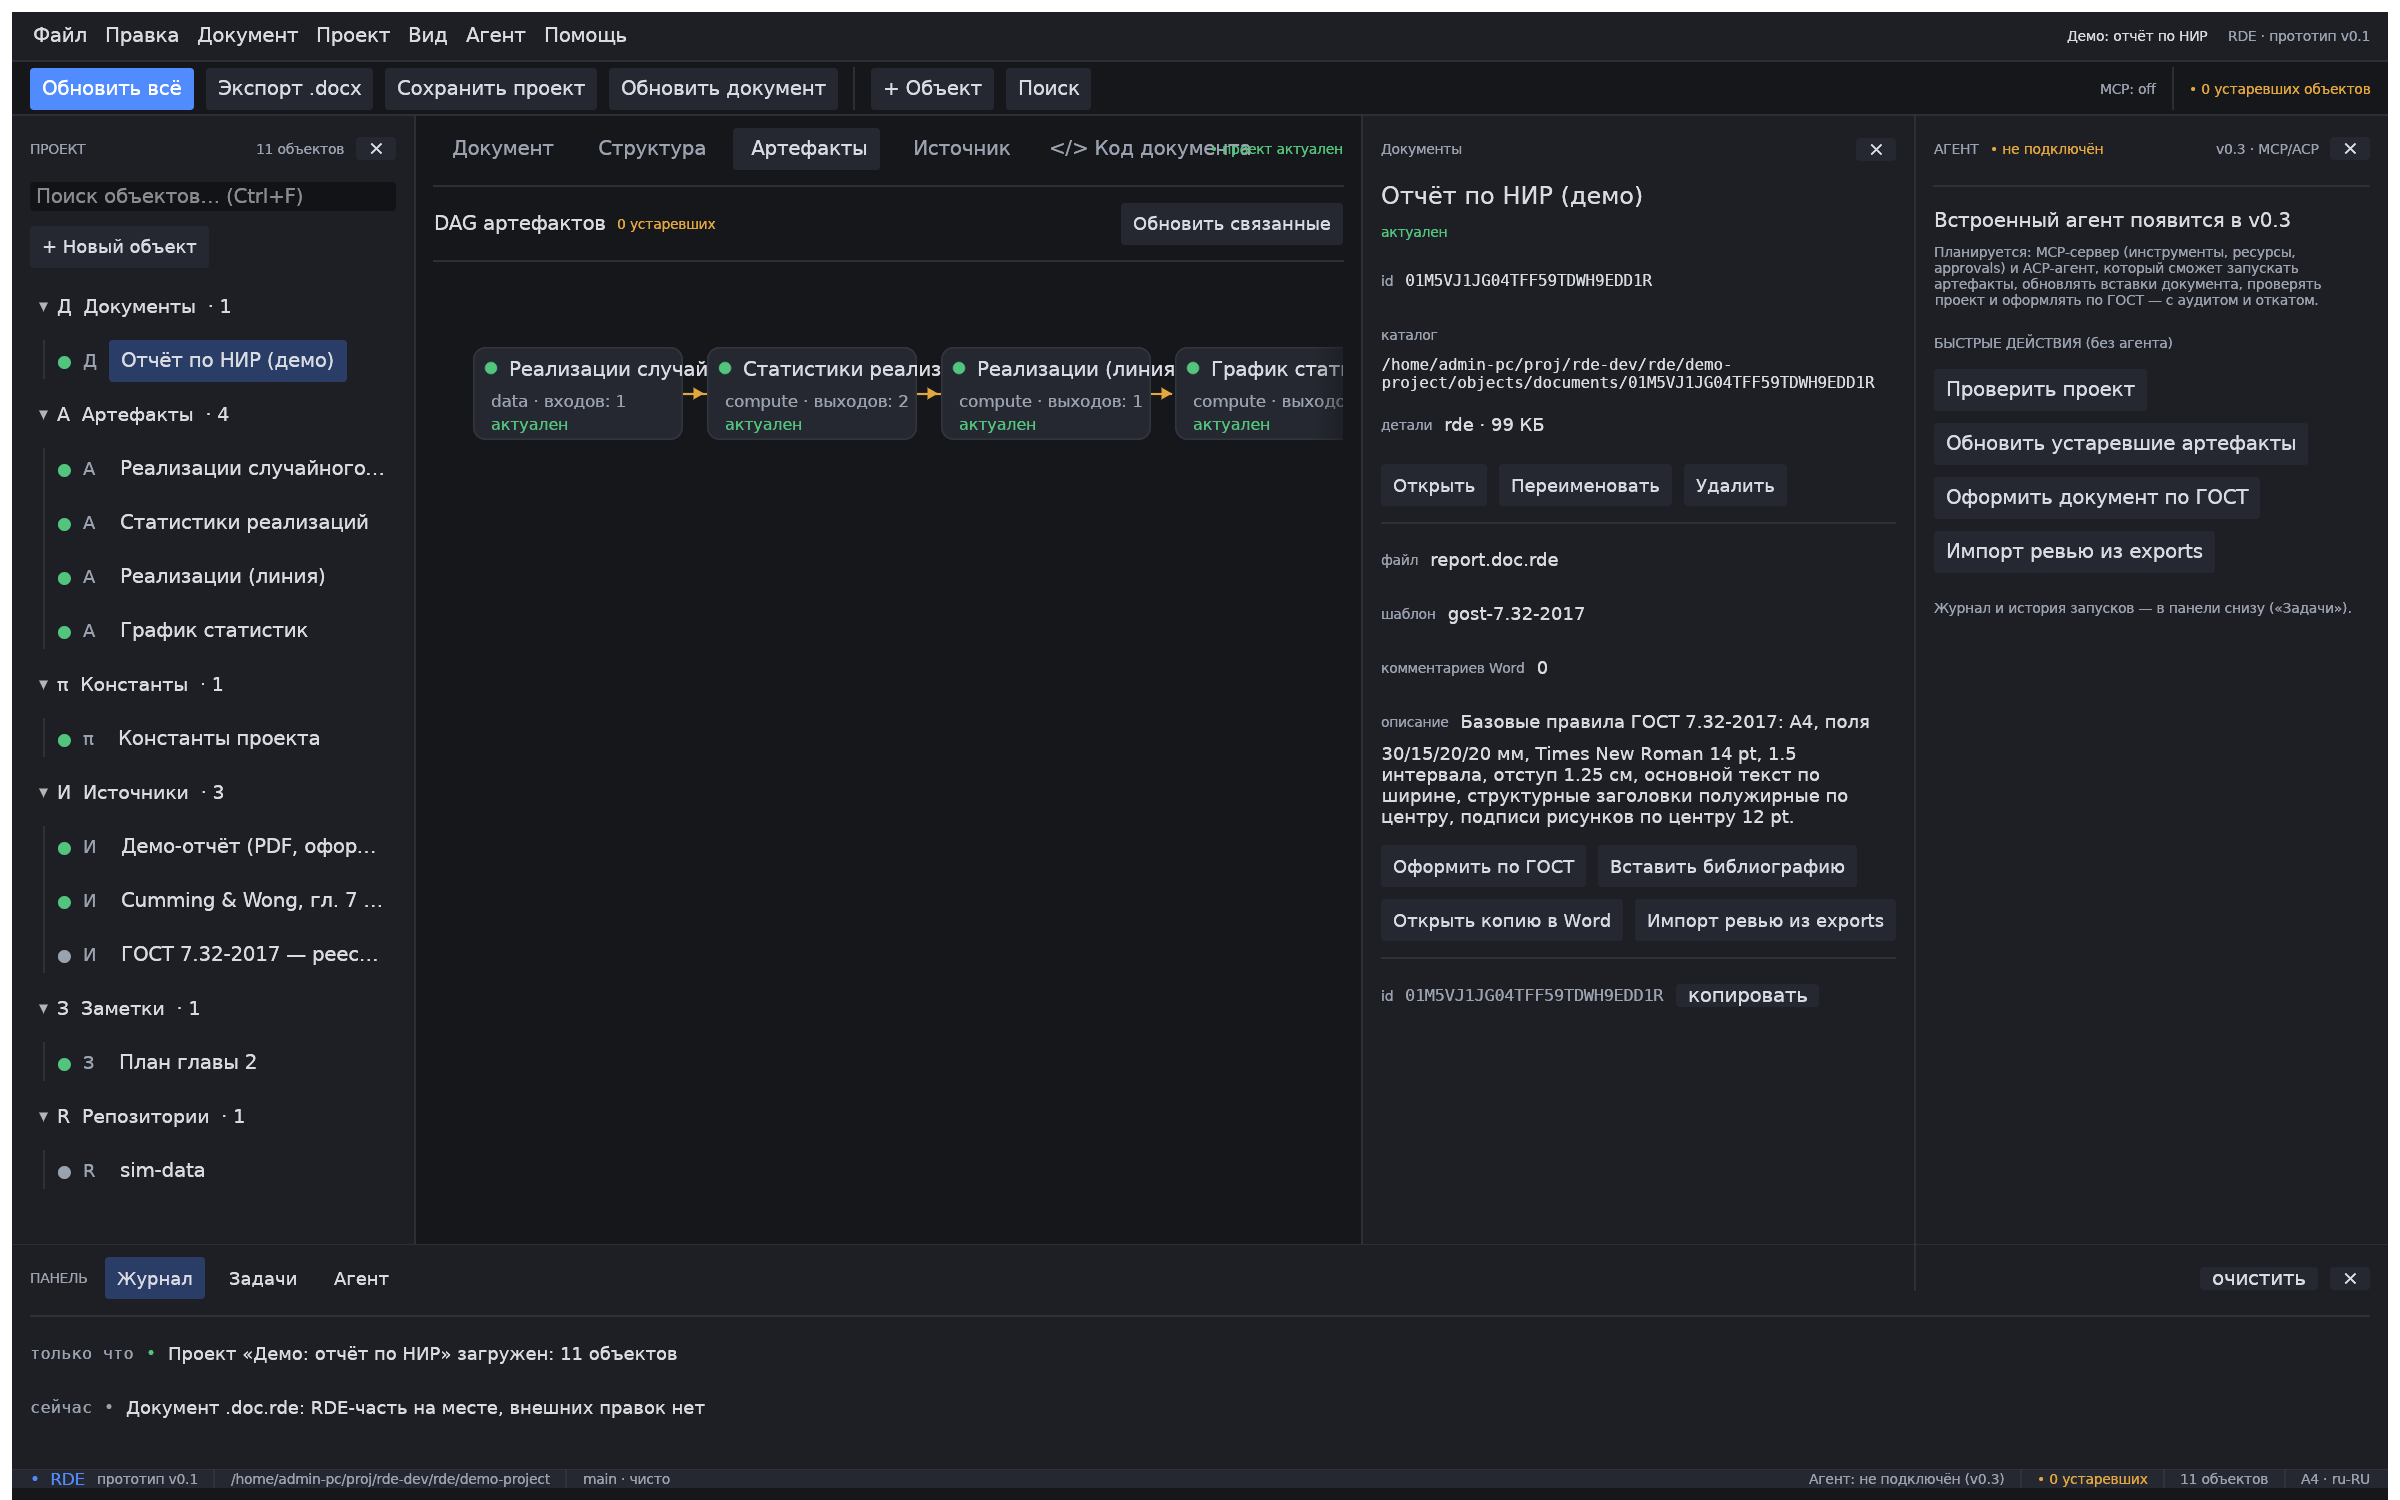
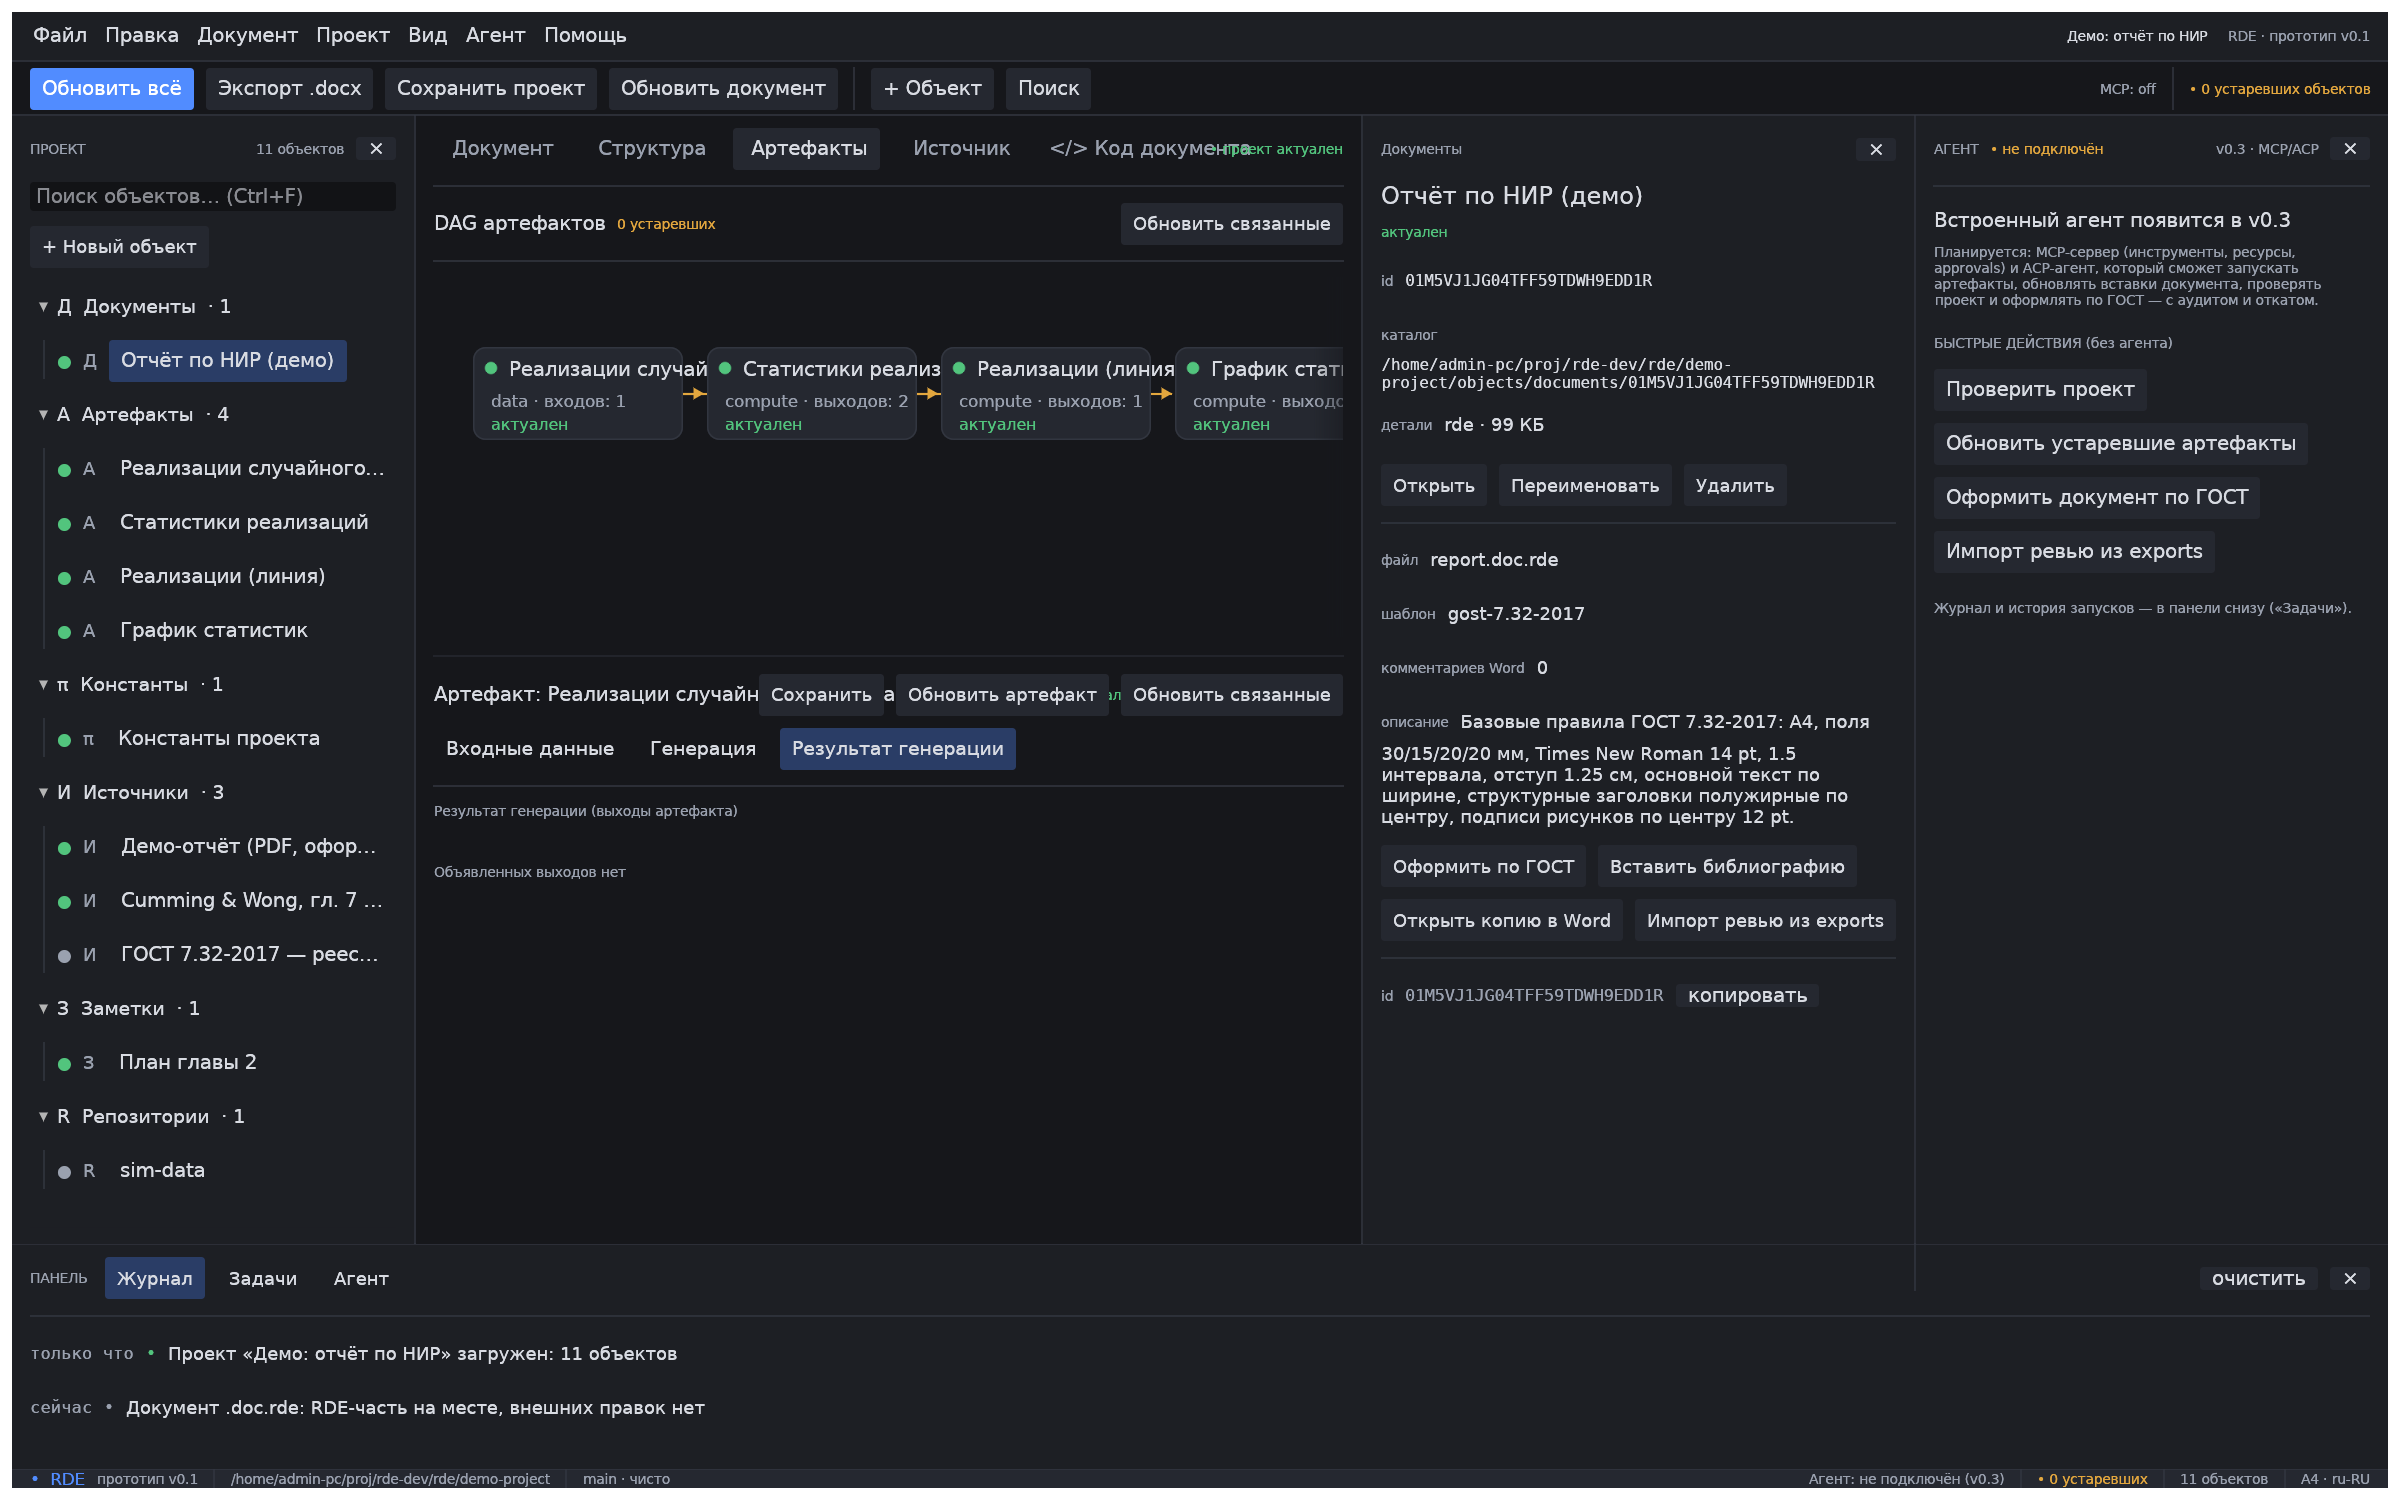
fix(ui): привязка medium/semibold, диалоги со 2-го кадра
Паника заголовков Window при глобальном Heading->semibold от WordCraft; set_fonts активен только после конца пасса. Тест window_title_survives_vendor_semibold_heading. 32/32.

Changed region(s): [[0.0, 0.9813, 1.0, 1.0], [0.1875, 0.46, 0.5625, 0.552]]

diff --git a/crates/rde-ui/src/lib.rs b/crates/rde-ui/src/lib.rs
@@ -438,6 +438,10 @@ pub struct RdeApp {
     ui_scale: f32,
     logs_tab: usize,
     fonts_installed: bool,
+    /// Счётчик кадров `ui()`: диалоги (`Window` с заголовком в стиле Heading)
+    /// рисуются со второго кадра — `set_fonts` применяется только в конце пасса,
+    /// и заголовок на первом кадре мог бы запросить ещё неактивную семью.
+    ui_frames: u64,
     // видимость панелей (скрываются через меню «Вид» или кнопкой × в заголовке)
     show_tree: bool,
     show_agent: bool,
@@ -528,6 +532,7 @@ impl RdeApp {
             ui_scale: 1.0,
             logs_tab: 0,
             fonts_installed: false,
+            ui_frames: 0,
             show_tree: true,
             show_agent: true,
             show_logs: true,
@@ -1837,6 +1842,7 @@ impl RdeApp {
     pub fn ui(&mut self, ui: &mut egui::Ui) {
         self.poll_update_job();
         self.maybe_auto_boot_update();
+        self.ui_frames += 1;
         if !self.fonts_installed {
             install_fonts(ui.ctx());
             self.fonts_installed = true;
@@ -1888,8 +1894,14 @@ impl RdeApp {
             self.inspector_panel(ui);
         }
         self.central(ui);
-        self.dialogs(ui.ctx());
-        self.dialogs_extra(ui.ctx());
+        // Диалоги — со второго кадра: шрифты из set_fonts() активны только после
+        // конца первого пасса, а заголовок Window уже на первом кадре может
+        // запросить семью (напр. semibold из глобального Heading), которой ещё нет
+        // в атласе. Задержка в один кадр незаметна, паники нет.
+        if self.ui_frames > 1 {
+            self.dialogs(ui.ctx());
+            self.dialogs_extra(ui.ctx());
+        }
     }
 
     fn push_log(&mut self, level: Level, text: impl Into<String>) {
@@ -6108,7 +6120,11 @@ const VENDORED_SANS: &[u8] = include_bytes!("../fonts/DejaVuSans.ttf");
 const VENDORED_MONO: &[u8] = include_bytes!("../fonts/DejaVuSansMono.ttf");
 
 /// Определения шрифтов оболочки: `rde-sans` — первый в пропорциональной семье,
-/// `rde-mono` — первый в моноширинной. Чистая функция — покрыта тестом.
+/// `rde-mono` — первый в моноширинной. Именованные семьи WordCraft
+/// (`medium`/`semibold`) тоже привязаны к `rde-sans`: WordCraft ставит на
+/// `semibold` глобальный `TextStyle::Heading`, и без привязки заголовки наших
+/// `Window` паникуют, когда активны шрифты оболочки (а не его `set_fonts`).
+/// Чистая функция — покрыта тестом.
 pub fn font_definitions() -> egui::FontDefinitions {
     let mut fonts = egui::FontDefinitions::default();
     fonts
@@ -6117,7 +6133,11 @@ pub fn font_definitions() -> egui::FontDefinitions {
     fonts
         .font_data
         .insert("rde-mono".to_owned(), Arc::new(egui::FontData::from_owned(VENDORED_MONO.to_vec())));
-    fonts.families.entry(egui::FontFamily::Proportional).or_default().insert(0, "rde-sans".to_owned());
+    let mut proportional = fonts.families.get(&egui::FontFamily::Proportional).cloned().unwrap_or_default();
+    proportional.insert(0, "rde-sans".to_owned());
+    fonts.families.insert(egui::FontFamily::Proportional, proportional.clone());
+    fonts.families.insert(egui::FontFamily::Name("medium".into()), proportional.clone());
+    fonts.families.insert(egui::FontFamily::Name("semibold".into()), proportional);
     fonts.families.entry(egui::FontFamily::Monospace).or_default().insert(0, "rde-mono".to_owned());
     fonts
 }
@@ -6290,6 +6310,46 @@ mod theme_tests {
         assert_eq!(monospace.first().map(String::as_str), Some("rde-mono"));
         assert!(proportional.len() > 1, "дефолтный fallback пропал из Proportional");
         assert!(monospace.len() > 1, "дефолтный fallback пропал из Monospace");
+        // Именованные семьи WordCraft связаны с rde-sans (иначе паника заголовков Window).
+        for family in ["medium", "semibold"] {
+            let list = fonts
+                .families
+                .get(&egui::FontFamily::Name(family.into()))
+                .unwrap_or_else(|| panic!("нет семьи {family}"));
+            assert_eq!(list.first().map(String::as_str), Some("rde-sans"), "{family}");
+        }
+    }
+
+    /// Заголовок `Window` (стиль Heading) не паникует, когда WordCraft уже
+    /// переназначил глобальный Heading на `semibold`, а активны наши шрифты.
+    #[test]
+    fn window_title_survives_vendor_semibold_heading() {
+        let mut open = true;
+        let mut harness = egui_kittest::Harness::builder().build_ui_state(
+            |ui, warmed: &mut bool| {
+                // set_fonts применяется в конце пасса: установка — на первом кадре,
+                // использование — со второго (как диалоги RDE после ui_frames-guard).
+                if !*warmed {
+                    super::install_fonts(ui.ctx());
+                    // Симуляция мутации WordCraft (theme.rs: Heading → semibold).
+                    ui.ctx().all_styles_mut(|style| {
+                        style.text_styles.insert(
+                            egui::TextStyle::Heading,
+                            egui::FontId::new(17.0, egui::FontFamily::Name("semibold".into())),
+                        );
+                    });
+                    *warmed = true;
+                    return;
+                }
+                egui::Window::new("Настройки приложения…").open(&mut open).show(ui.ctx(), |ui| {
+                    ui.label("Кириллица: Привет, Ёё!");
+                });
+            },
+            false,
+        );
+        for _ in 0..4 {
+            harness.step();
+        }
     }
 
     /// Применение темы на headless-контексте: предпочтение вступает сразу;

diff --git a/crates/rde-ui/fonts/README.md b/crates/rde-ui/fonts/README.md
@@ -8,6 +8,10 @@
 | `DejaVuSans.ttf` | `rde-sans` — пропорциональный, первый в `FontFamily::Proportional` | `/usr/share/fonts/truetype/dejavu/DejaVuSans.ttf` |
 | `DejaVuSansMono.ttf` | `rde-mono` — моноширинный, первый в `FontFamily::Monospace` | `/usr/share/fonts/truetype/dejavu/DejaVuSansMono.ttf` |
 
+Именованные семьи WordCraft (`medium`/`semibold`) тоже привязаны к `rde-sans`:
+WordCraft ставит на `semibold` глобальный `TextStyle::Heading`, и без привязки
+заголовки окон RDE паникуют, когда активны шрифты оболочки.
+
 Покрытие кириллицы (проверено `fontTools`): оба файла содержат все 96
 символов U+0400–U+045F, включая Ё/ё.
 
